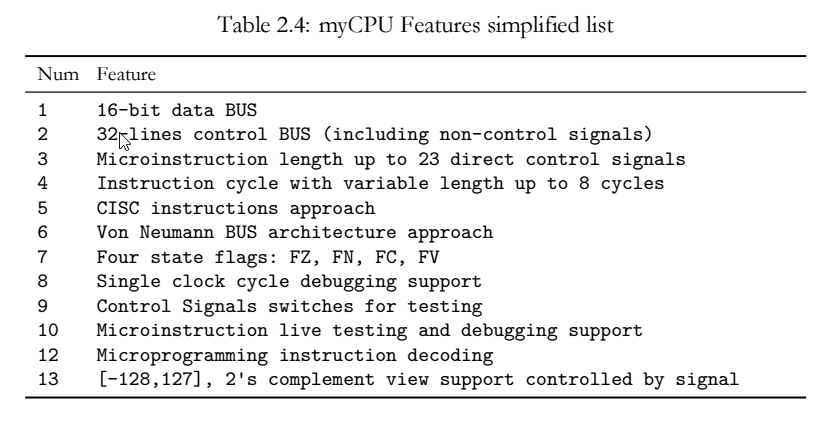
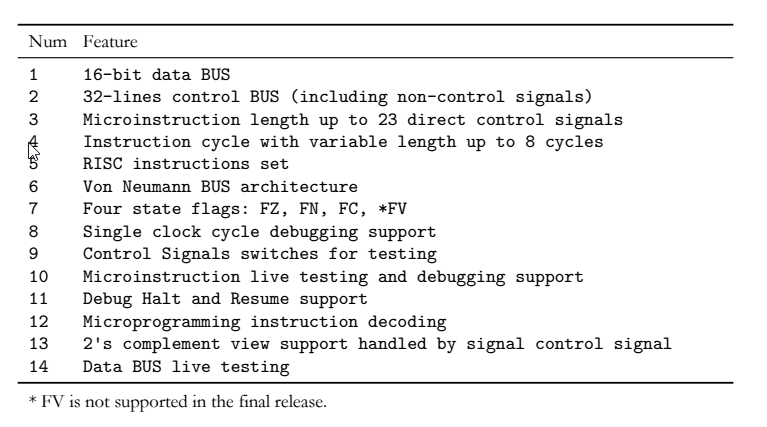
Change Intro content and upload new picures

Changed region(s): [[0.03, 0.0913, 0.9896, 0.9742], [0.03, 0.0304, 0.9596, 0.0913]]

diff --git a/pages/en/mycpu/introduction.md b/pages/en/mycpu/introduction.md
@@ -12,7 +12,7 @@ Welcome to the introductory page of the myCPU project.
 
 <a class="button is-primary is-light" href="{{ site.baseurl }}/downloads/book/mycpu_book_chapter2.pdf" target="_blank">Free myCPU Introduction chapter from the myCPU Book</a>
 
-The myCPU is a fully modular **8-bit TTL/CMOS CPU** designed using only discrete logic elements implemented by the most common integrated circuits from the 74xx family over CMOS or TTL technologies. The myCPU instruction encode/decode is based on the Microprograming technique and the instruction execution flow is based on Microinstructions. The myCPU support debugging at level of an individual microinstruction. It was designed on printed circuit boards (PCBs) and it can built using TTL or CMOS technologies because the design is TTL compatible. 
+The myCPU is a fully modular **8-bit TTL/CMOS CPU** designed using only discrete logic elements implemented by the most common integrated circuits from the 74xx family over CMOS or TTL technologies. The myCPU project uses the "**Microprograming Technique**" to encode/decode instructions and the execution flow of an instruction is based on **Microinstructions** with support to debugging at level of an individual microinstruction. It was designed on printed circuit boards (PCBs) and it can built using TTL or CMOS technologies because the design is TTL compatible. 
 {: style="text-align: justify"}
 
 The feature of debugging at microinstruction level allows to observe the execution of individual microinstructions and step through each one, viewing the state of all logic components statically. Providing a detailed view of the instruction execution flow in real-time.
@@ -150,6 +150,7 @@ The data and control buses, as well as the 9V power source, are propagated from 
 </figure>
 
 Each Bus module board has its own +5V power supply using a 7805 voltage regulator, supplying power to the two modules plugged in to the board. The power source is supplied to the Bus module regulators through the chain connectors, and the power is supplied to the modules through the control bus connector.
+{: style="text-align: justify"}
 
 This approach enable the use of a common 9V power source to provide a stable +5V power supply to the pair of modules plugged in to each Bus module board, without any voltage drop or electrical issues. The Layout Connector module board has the power source connector, a power switch and filter capacitors providing a clean +9v power supply to the BUS modules. You can find a full description of the BUS module in the related page: [The BUS Module](/pages/en/mycpu/modules/bus).
 {: style="text-align: justify"}
@@ -181,7 +182,8 @@ One of the most interesting features of the myCPU design, from a learning perspe
 {: style="text-align: justify"}
 
 #### Functional blocks
-In the myCPU design, logic modules sometimes are grouped as "**Functional Blocks"** because they working together to perform a specific task and could be connected by a dedicated connection, as in the case of the **ALU** module with the accumulator A and operand B, the **SRAM** module with the **MAR** module or the **Instruction Decoder** module with Sequencer, Flags Register, Instruction Register and CSM modules. The myCPU is based on **7 functional blocks**, plus one \textbf{Auxiliary block} that includes other modules to provide specific functionality or connectivity. Each block is composed by one or more functional modules and could be implemented using one or more physical modules.
+In the myCPU design, logic modules sometimes are grouped as "**Functional Blocks"** because they working together to perform a specific task and could be connected by a dedicated connection, as in the case of the **ALU** module with the accumulator A and operand B, the **SRAM** module with the **MAR** module or the **Instruction Decoder** module with Sequencer, Flags Register, Instruction Register and CSM modules. The myCPU is based on **7 functional blocks**, plus one **Auxiliary block** that includes other modules to provide specific functionality or connectivity. Each block is composed by one or more functional modules and could be implemented using one or more physical modules.
+{: style="text-align: justify"}
 
 Bellow you can see a list and a diagram of the functional blocks architecture:
 {: style="text-align: justify"}
@@ -242,22 +244,26 @@ The myCPU was designed with modularity in mind, allowing decoupling between func
 This feature is very interesting, because you can redesign some of the modules included in the kit with your own new or modified version, while leave the others without any changes. An existing module could be redesign entirely, or just change one IC by another model of IC, for example changing the pair of 4-bit D-Type register 74xx173 IC of the Accumulator module by only one 8-bit D-Type register 74xx377 IC.
 {: style="text-align: justify"}
 
-Modules have left-side or right-side compatibility, which limits their available positions on the module board. Right-side modules cannot be plugged into the left side and vice versa. As of now, not all modules have been designed for both-side compatibility, with only the general-purpose register ABC board having versions for both sides.
+Modules have left-side or right-side compatibility, limiting their available positions on the BUS module board. Right-Side modules cannot be plugged into the left side and Left-Side modules cannot be plugged into the right side. Not all modules have been designed for both-side compatibility, at the moment of write the book only the general-purpose register ABC board has versions for both sides.
 {: style="text-align: justify"}
 
-Thanks to the modular architecture, you can build a highly customized myCPU layout with modules distributed according to your preferences.
+Thanks to the modular architecture, you can build a highly personalized myCPU layout with a module distribution according to your preferences.
 {: style="text-align: justify"}
 
->The myCPU design support customizable distributions of modules over the myCPU layout
+>The myCPU design allows to build customizable distributions of modules over the myCPU layout
 
-#### Module Layouts
-According to the BUS module design, and thanks to its modular architecture, you can reorganize the positions of the myCPU modules to configure the myCPU layout. You will have the ability to choose from different physical layouts when plugging in the modules. This feature enables you to customize the layout of your myCPU to suit your preferences. In my case, I prefer to place the clock module at the bottom of the layout, the BUS manager module at the top, and the memory block composed of the MAR and SRAM modules at the bottom as well, to make it easier to access the test switches.
+#### Module distribution layouts
+According to the BUS module design, and thanks to its modular architecture, you can reorganize the positions of the myCPU modules to configure the myCPU layout. You will have the ability to choose from different physical layouts when plug in the modules. This feature enables you to customize the layout of your myCPU to suit your preferences. In my case, I prefer to place the clock module at the bottom of the layout, the BUS manager module at the top, and the memory block composed of the MAR and SRAM modules at the bottom as well, to make it easier to access the test switches.
 {: style="text-align: justify"}
+
+![myCPU Layout]({{ site.baseurl }}/img/mycpu/diagrams/mycpu_vertical_layout_v1.png){:width="200px"}&nbsp;&nbsp;&nbsp;&nbsp;
+![myCPU Layout]({{ site.baseurl }}/img/mycpu/diagrams/mycpu_vertical_layout_v2.png){:width="200px"}&nbsp;&nbsp;&nbsp;&nbsp;
+![myCPU Layout]({{ site.baseurl }}/img/mycpu/diagrams/mycpu_landscape_layout_v1.png){:width="400px"}
 
 The myCPU design has certain layout limitations related to modules that are part of a functional block and are interconnected, or the compatible side version of the module. Modules that are part of a functional block may need to be placed together due to the wiring between them.
 {: style="text-align: justify"}
 
-In addition to customizing the distribution of the modules over the myCPU layout, you can choose the orientation of the layout: vertical or horizontal. You can use one BUS module chain for the vertical layout or two BUS module chains for the horizontal layout, the latter should have the chains connected by the Layout Connector. You can See more info about it in the section: \fullref{sec:Layout_connector}.
+In addition to customizing the distribution of the modules over the myCPU layout, you can choose the orientation of the layout: vertical or landscape. You can use a unique BUS module chain for the vertical layout or two BUS module chains for the landscape layout. The vertical layout need to be connected with \textbf{Single Layout Connector} to provide the power supply input. The landscape layout should have the chains connected by the \textbf{Layout Connector} at the top and the \textbf{Layout Terminator} at the bottom to keep connected both chains from to bottom, as well to provide the power supply input. You can See more info about at the page about [Layout Connectors](/pages/en/mycpu/extra_modules/bus_layout_connector).
 {: style="text-align: justify"}
 
 >At the beginning of the [Open Architecture](#open-architecture-and-modular-design) section you could see two images of real layouts. 
@@ -265,111 +271,107 @@ In addition to customizing the distribution of the modules over the myCPU layout
 And below you will find some examples of layouts according to the block modules and module side version restrictions:
 {: style="text-align: justify"}
 
-![myCPU Layout]({{ site.baseurl }}/img/mycpu/diagrams/mycpu_module_v1.png){:width="200px"}&nbsp;&nbsp;&nbsp;&nbsp;
-![myCPU Layout]({{ site.baseurl }}/img/mycpu/diagrams/mycpu_module_v2.png){:width="200px"}&nbsp;&nbsp;&nbsp;&nbsp;
-![myCPU Layout]({{ site.baseurl }}/img/mycpu/diagrams/mycpu_module_h1.png){:width="400px"}
+
 
 #### Functional and physical Modules
-The myCPU architecture design include 16 functional modules in the first release, implemented on 15 physical module boards because the sequencer and the Flags register were designed on the same physical module board. Below you can find a list with all module boards provided with the kit. 
+The myCPU architecture design include 16 functional modules in the final release, implemented on 15 physical module boards because the sequencer and the Flags register were designed on the same physical module board. Below you can find a list with all module boards will be provided in the myCPU kit.
 {: style="text-align: justify"}
 
 <figure class="center">
-    <img src="{{ site.baseurl }}/img/mycpu/tables/myCPU_physical_modules.png" alt="myCPU Physical modules" title="myCPU Physical modules" width="800">
+    <img src="{{ site.baseurl }}/img/mycpu/tables/myCPU_physical_modules.png" alt="myCPU Physical modules" title="myCPU Physical modules" width="700">
 </figure>
 
 >Navigate to [Introduction page of modules](/pages/en/mycpu/modules) for more information related to the myCPU modules and the module design in the open architecture.
 {: style="text-align: justify"}
 
 #### Display Modules
-The myCPU design include, in the first release, 3 display modules: two of them are binary displays and the other is a binary to decimal display/decoder as you can see in the next table: 
-{: style="text-align: justify"}
-
-1. **Binary to decimal display module (4 digits)**
-2. **Binary LED display module 8 bits**
-3. **Binary LEDBar display module 16 bits**
-
->You can see a better description of each module on its specific pages: 
-[Binary to Decimal display 4 Digits](/pages/en/mycpu/modules/decimal_display), 
-[8-bit LED binary display](/pages/en/mycpu/modules/display_led) and
-[16-bit LED binary display](/pages/en/mycpu/modules/display_led16)
-
-#### Additional tools and extra boards
-The myCPU kit include one additional module and two extra boards: 
-
-1. **EEProm programmer tool for the AT28C64 EEProm memory**
-2. **Protoboard for your custom module prototypes**
-3. **Layout Connector board**
-
-The Layout Connector board allows to connect the chains of the landscape layout. 
-{: style="text-align: justify"}
-
-The protoboard will be provided with version for both sides, left anb right, in the myCPU Kit.
-{: style="text-align: justify"}
-
->You can see a better description of each module on its specific pages: 
->[EEProm programmer module](/pages/en/mycpu/extra_modules/eeprom_programmer), 
->[Protoboard](/pages/en/mycpu/extra_modules/protoboard) and
->[Layout Connector](/pages/en/mycpu/extra_modules/bus_layout_connector)
-
-
-### Features of myCPU
-Below is a brief list of myCPU digital features. Some of these features are improvements over the Ben's Eater breadboard computer. It is highly recommended to understand the meaning of these features in relation to the design of myCPU. In the following sections, I will briefly explain what each of these features means.
+The myCPU design include, in the final release, 3 display modules: two of them are LED based binary displays and the other is a 4 digits binary to hexadecimal/decimal decoder display. Available displays are listed below:
 {: style="text-align: justify"}
 
 <figure class="center">
-    <img src="{{ site.baseurl }}/img/mycpu/tables/myCPU_features.png" alt="myCPU Features" title="myCPU Features" width="800">
+    <img src="{{ site.baseurl }}/img/mycpu/tables/myCPU_display_modules.png" alt="myCPU Display modules" title="myCPU Display  modules" width="700">
+</figure>
+
+>You can see a better description of each module on related display pages at modules menu. 
+
+
+#### Additional tools and extra boards
+The myCPU kit include one additional module for programming the EEProms AT28C64, used in the myCPU. Two auxiliary boards to connect and power the myCPU layout chains: a Single Layout Connector board for the vertical myCPU layout and a Layout Connector/Terminator board to support the landscape layout. And two extra board types for prototyping: A simple protoboard for general purpose and a specified protoboard with connectivity for a 245 and the output port added to the board. The protoboards have compatibility for left and right sides.
+{: style="text-align: justify"}
+
+
+<figure class="center">
+    <img src="{{ site.baseurl }}/img/mycpu/tables/myCPU_extra_modules.png" alt="myCPU Extra modules" title="myCPU Extra modules" width="600">
+</figure>
+
+>You can see a better description of each module on the related pages at the **Extra Modules** menu: 
+
+
+### Features of myCPU
+In the next table you can find a brief list of myCPU digital features. Some of these features come from the original design of the Ben Eater's breadbooard computer and others are improvements over his design. It is highly recommended to understand the meaning of these features in relation to the design of the myCPU. In the following sections, I will briefly explain what each of those features means.
+{: style="text-align: justify"}
+
+<figure class="center">
+    <img src="{{ site.baseurl }}/img/mycpu/tables/myCPU_features.png" alt="myCPU Features" title="myCPU Features" width="700">
 </figure>
 
 #### The Buses
-The myCPU uses only two buses to facilitate data sharing and connectivity between modules and functional blocks: the **Control Bus** and the **Data Bus,** following the **Von Neumann Bus Architecture**, where data and memory addresses are shared on the same bus, the Data Bus. Despite its basic design, it is important for students and learners to take note of this aspect of the myCPU design. Something like a dedicated **Address Bus **is only present in the connection between the MAR and SRAM modules.
+The myCPU uses only two buses to facilitate data sharing and connectivity between modules and functional blocks: the **Control Bus** and the **Data Bus**, following the Von Neumann Bus Architecture, where data and memory addresses are shared on the same bus. In the myCPU design is pointed as the Data Bus. Despite its basic design, it is important for students and learners to take note of this aspect of the myCPU design. Something like a dedicated **Address Bus** is only present in the connection between the MAR and SRAM modules.
 {: style="text-align: justify"}
 
-The Data Bus supports data lengths up to 16 bits, which is sufficient for future releases of the myCPU. With 16 bits, we can address up to 64Kb, which satisfies the requirements of a common CPU like myCPU, and more. Due to the 8-bit nature of the myCPU, will be enough to use only 8 bits for data exchange. However, this may result in a performance reduction due to the need of multiple fetch cycles to manage 16 bits data. Managing 16 bits data using 8 bits data transfer requires two clock cycles to each movement between registers and memory.
+The Data Bus supports data lengths up to 16 bits, which would be enough for future releases of the myCPU using the same BUS module board design or would be enough to design custom modules or modules prototypes supporting handle more than 8 bits. With 16 bits, we can address up to 64Kb, which satisfies the requirements of a very basic CPU like myCPU, and more.
+Due to the 8-bit nature of the myCPU would be enough use just 8 bits for data exchange, However, this may result a limitation by the need of multiple fetch cycles to manage 16 bits data. The Management of 16 bits of data using an 8 bits data transfer requires at least two clock cycles for each exchange of data between registers and memory, so a 16 bits Data BUS is a very interesting feature for a learning platform like the myCPU and is a essential feature for future releases like the myCPU256 or the myCPU2K.
 {: style="text-align: justify"}
 
-All of the myCPU control signals are transmitted through the Control Bus. The Control Bus has a capacity of 32 lines, via a 32-pin connector, although not all of these lines are used for control signals. The voltage regulators located in each bus module utilize the GND and +5v pins of the Control Bus to provide power to the modules. The clock and reset signals, as well as the status flags signals, also travel through the Control Bus.
+All of the myCPU control signals are transmitted through the **Control Bus**. The Control Bus has a capacity of 32 lines, via a 32-pin connector, although not all of these lines are used for control signals. The voltage regulators located in each bus module utilize the GND and +5v pins of the Control Bus to provide power to the modules. The clock and reset signals, as well as the status flags signals, also travel through the Control Bus.
 {: style="text-align: justify"}
 
 The lines included on the control BUS are distributed as indicated in the list below:
 {: style="text-align: justify"}
 
-The lines included on the control BUS are distributed as indicated below:
 
 <figure class="center">
-    <img src="{{ site.baseurl }}/img/mycpu/tables/myCPU_control_bus_lines.png" alt="myCPU Control Bus Lines" title="myCPU Control Bus Lines" width="700">
+    <img src="{{ site.baseurl }}/img/mycpu/tables/myCPU_control_bus_lines.png" alt="myCPU Control Bus Lines" title="myCPU Control Bus Lines" width="600">
 </figure>
 
 #### The Control Signals of myCPU
-The myCPU support up to 23 control signals driving the logic devices of myCPU. The 23 control signals are managed directly by the Control Signals Manager (**CSM**), which sets the appropriate digital state to be sent to each logical device in the myCPU.
+The myCPU support up to 23 control signals driving the logic devices of myCPU. 22 of the control signals are managed directly by a dedicated module: the **Control Signals Manager (CSM)**, which sets the corresponding digital state for the control signals sent to each logical device in the myCPU. One of them, the **SQR** signal in internal an handled directly by the Instruction Decoder to control the sequencer cycle.
 {: style="text-align: justify"}
 
-Control signals are described deeper at the **[CSM module page](/pages/en/mycpu/modules/csm)**.
+>More info about control signals can be found at the **[CSM module page](/pages/en/mycpu/modules/csm)**.
 {: style="text-align: justify"}
 
-Knowing the default values of each control signal is essential for understanding the behavior of the modules. Control signals are the truly key in the interaction between **the hardware (logic devices)** and the **software (instructions)**. Instructions are composed by microinstructions, and those microinstructions are binary words composed by control signals that act directly on the electronics of the modules.
+Knowing the default values of each control signal is essential for a proper understanding of the behavior of the modules. Control signals are the truly key in the interaction between the hardware (modules) and the software (instructions). Instructions are composed by microinstructions, and those microinstructions are binary strings composed by control signals which act directly on the electronics of the modules modifying their logic state.
 {: style="text-align: justify"}
 
-Designing your own custom modules also requires a deep understanding of the control signals, their default values and the actions they produce on logic devices.
+<figure class="center">
+    <img src="{{ site.baseurl }}/img/mycpu/diagrams/mycpu_microinstruction_flow.png" alt="myCPU Control Signals" title="myCPU Control Signals" width="700">
+</figure>
+
+Designing your own custom modules will require a deep understanding of the control signals, their default values and the actions they should produce on the logic components of modules.
 {: style="text-align: justify"}
 
 The below table 2.6 shows the full list of the myCPU control signals.
 {: style="text-align: justify"}
 
 <figure class="center">
-    <img src="{{ site.baseurl }}/img/mycpu/tables/myCPU_control_signals.png" alt="myCPU Control Signals" title="myCPU Control Signals" width="800">
+    <img src="{{ site.baseurl }}/img/mycpu/tables/myCPU_control_signals.png" alt="myCPU Control Signals" title="myCPU Control Signals" width="700">
 </figure>
 
 ##### Signed display mode support
-The myCPU support a signed mode of execution, its affects basically only to the mode on how the decimal number display shows numbers, not to the execution itself. There’s a control signal \textbf{UN} which enable the signed display mode.
+The myCPU support a 2's complement display mode, its affects basically only to the mode on how the hex/dec decoder display shows binary values, not to the manipulation of a binary value itself. There’s a control signal **UN** which enable the 2's complement display mode.
 {: style="text-align: justify"}
 
-The binary to decimal display shows numbers as unsigned, with a range from **0 to 255**, when the **UN** control signal is LOW. When the **UN** control signal is HIGH, the display shows numbers as signed numbers using 2's complement representation, with a range from **-128 to 127**. This feature is in line with the corresponding feature of the Ben Eater's project.
+The binary to decimal display shows numbers as unsigned, with a range from **0 to 255,** when the **UN** control signal is LOW. When the **UN** control signal is HIGH, the display shows numbers as signed numbers using 2's complement representation, with a range from **-128 to 127**. This feature is in line with the corresponding feature of the output module in the Ben Eater's project.
 {: style="text-align: justify"}
 
 >You should watch the Ben Eater's video about: [Two's complement arithmetic](https://www.youtube.com/watch?v=4qH4unVtJkE){:target="_blank"}
 
 #### The Instruction Cycle
-The myCPU instruction execution is performed through a single Instruction cycle that consists of a fetch cycle followed by an execution cycle. Due to the simplicity of the instruction set and program limitations, the myCPU execution cycle does not require any additional specialized phases. The length of the Instruction cycle reach to 8 states or steps. Each step of the instruction cycle requires one clock cycle to complete and executes a single microinstruction.
+The myCPU instruction execution is performed through a Instruction cycle that consists of a fetch cycle followed by an execution cycle. The myCPU is a single fetch execution cycle, it means that uses only one fetch cycle to gets the instruction and the argument of the instruction. It is possible thanks to an Instruction Register with a 4+4 bits design, most significative 4 bits for the OpCode of the instruction and less significative 4 bits for the argument. So in a single 8 bits data exchange operation with memory retrieve the instruction and the argument, being the most simplified way to view and understand the execution cycle of a CPU in real time.
+{: style="text-align: justify"}
+
+Due to the simplicity of the instruction set and program limitations, the myCPU execution cycle does not require any additional specialized phases. The length of the Instruction cycle reach to 8 states or steps. Each step of the instruction cycle requires one clock cycle to complete and executes a single microinstruction.
 {: style="text-align: justify"}
 
 Next image shows an example of the instruction cycle for the ADD instruction:
@@ -379,17 +381,17 @@ Next image shows an example of the instruction cycle for the ADD instruction:
     <figcaption>ADD Instruction cycle sample diagram</figcaption>
 </figure>
 
->The myCPU support a microinstruction length up to 24 bits, involving 23 control signals and 22 of them shared through the Control BUS.
+>The myCPU design support a microinstruction length up to 24 bits, involving 23 control signals. 22 of them are exposed through the Control BUS.
 {: style="text-align: justify"}
 
-MyCPU is a basic design of an early CPU with limited capabilities compared to modern CPUs. Unlike modern CPUs that can perform multiple instruction cycles simultaneously through pipelining, myCPU can only execute one instruction cycle per instruction. The original design of myCPU had a variable instruction cycle length unlike the Ben Eater's breadboard computer, but later versions introduced the ability to reset the sequencer at specific steps and initiate a new instruction cycle. This gave myCPU the capability of the variable length instruction cycle feature.
+The myCPU is a basic approximation of an early CPU with limited capabilities compared to real CPUs. Unlike modern CPUs that can perform multiple instruction cycles simultaneously through pipelining, myCPU can only execute one instruction cycle per instruction. The design of myCPU supports a variable instruction cycle length through the ability to reset the sequencer at a specific step and initiate a new instruction cycle.
 {: style="text-align: justify"}
 
-Due to the microinstruction based nature of the myCPU, the instruction architecture of myCPU could be described as **RISC** (Reduced Instruction Set Computer) instead of a **CISC** (Complex Instruction Set Computer). Each instruction can consume from 2 (the minimal intruction cycle length) to 8 clock or state cycles, and probably, it could be upgraded up to 16 state cycles in next releases. Remember that in the myCPU design each state cycle is equivalent to a single clock cycle.
+The instruction set architecture of myCPU could be described as **RISC (Reduced Instruction Set Computer)** instead of a CISC (Complex Instruction Set Computer) because of the microinstruction based nature of the myCPU execution flow. Each instruction can consume from 2 (the minimal instruction cycle length) up to 8 cycle steps, and probably, it could be upgraded up to 16 steps in next releases. Remember that in the myCPU design each step or state is equivalent to a single clock cycle.
 {: style="text-align: justify"}
 
 #### The Flags
-The myCPU design include up to 4 status flags, but only two of them are used in the first relaese. Mainly for the limitations of the ALU, which is based on simple adders. The first release uses only: The **Carry Out flag FC**, which correspond with the last carry bit of the adders cascade, the **Zero flag FZ** which is calculated using logic gates and the **Negative flag FN** which correspond to the most significant bit of the ALU value or sign bit in 2's complement value representation. The **Overflow flag FV** is not used, in the first release, but is supported by the flags register. 
+The myCPU design include up to 4 status flags, but only 3 of them are used in the first release. Mainly for the limitations of the ALU module, which is based on simple adders. myCPU uses only: The **Carry Out flag FC**, which correspond with the last carry bit of the adders cascade, the **Zero flag FZ** which is calculated using logic gates and the **Negative flag FN** which correspond to the most significant bit of the ALU value or sign bit in 2's complement value representation. The **Overflow flag FV** is not used, in the first release, although is supported by the flags register. 
 {: style="text-align: justify"}
 
 >Only ALU related flags are supported in the first release.
